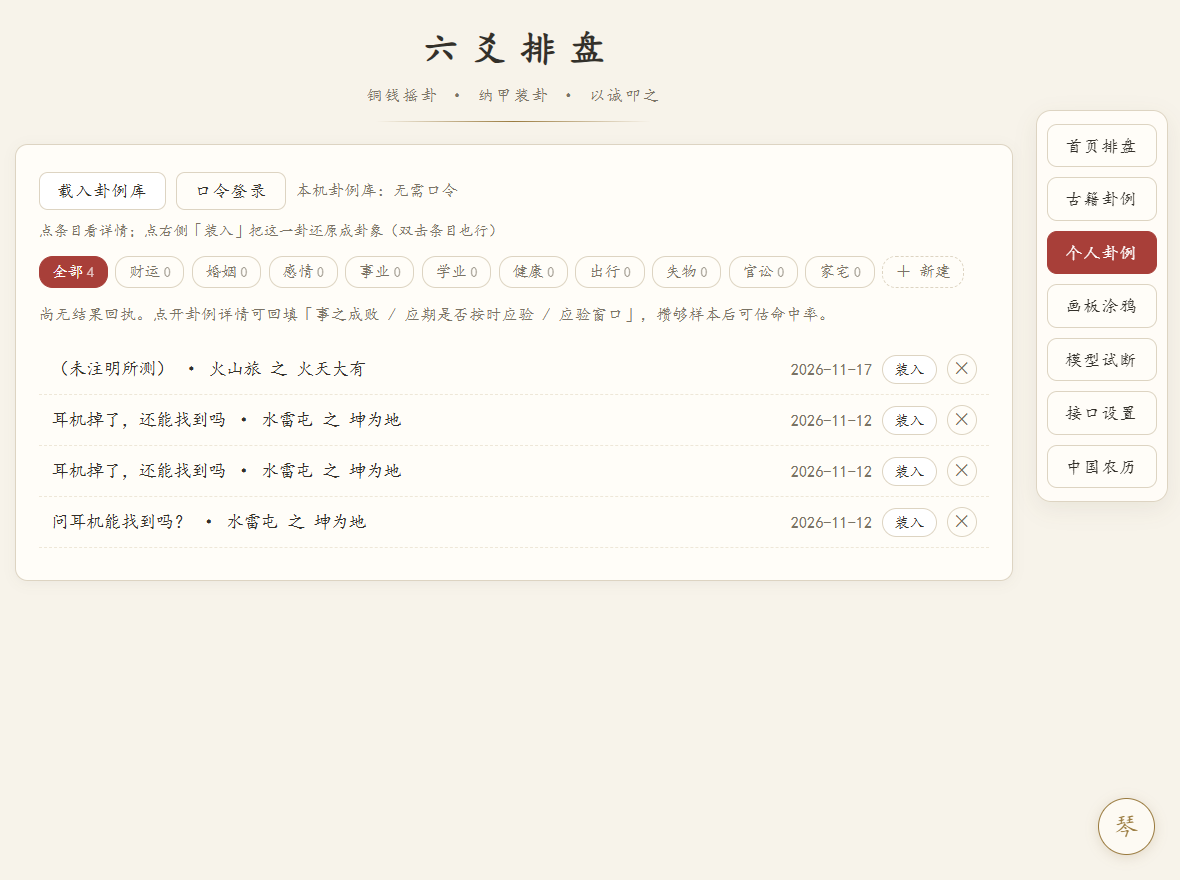
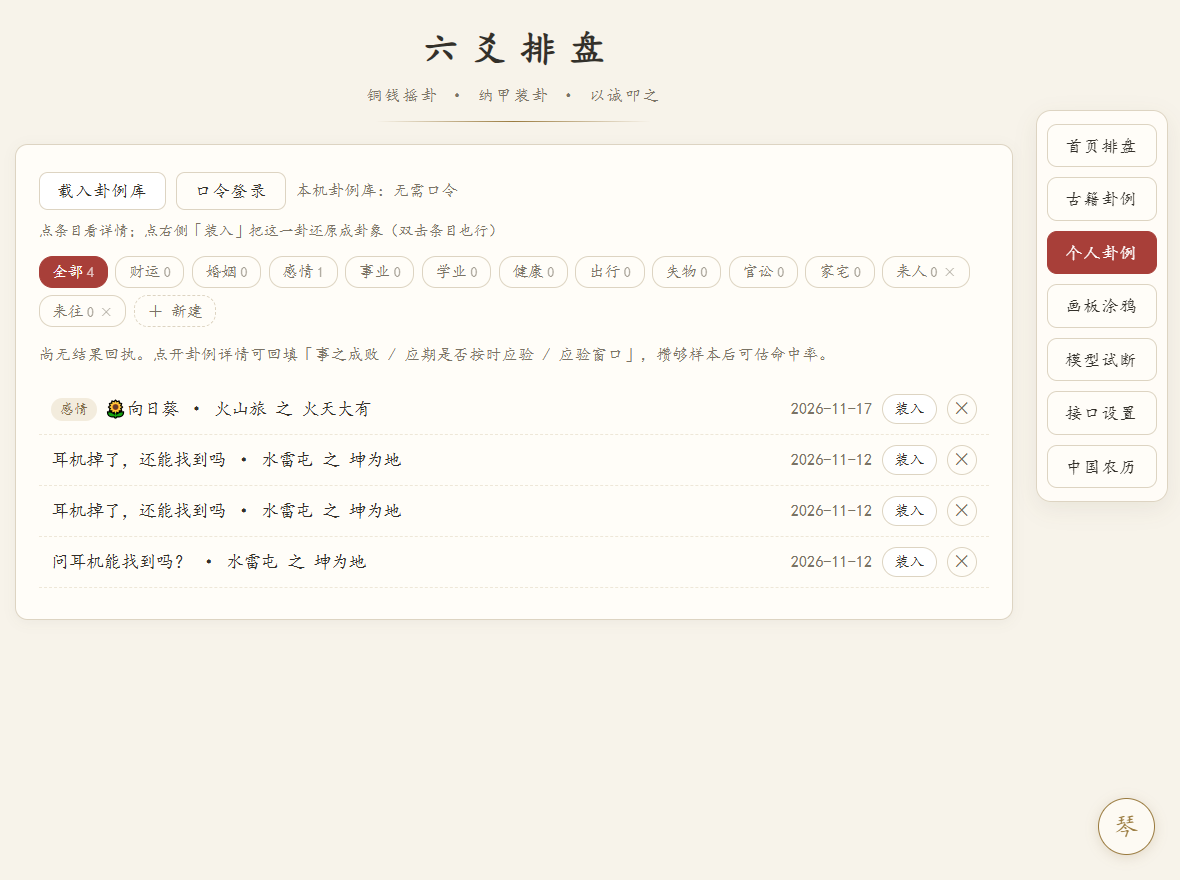
fix(OCR): 改用强类型 WinRT 投影 + async/await，反射根本拿不到成员
真机第二轮仍然 30 秒超时。直接验证了根因：
WinRT 异步方法返回的是 System.__ComObject，在它上面
  GetProperty("Status")   -> null
  GetMethod("GetResults") -> null
  GetEvent("Completed")   -> null
  GetMembers() 只有 7 个 Object 基成员
也就是投影缺失，反射一条路都走不通——之前拿不到 Status 就退化去挂 Completed
事件，可事件也拿不到，于是必然等到超时。上一版改成轮询也没解决问题，
因为轮询同样要读 Status。

改法：按官方方式用强类型投影，直接 async/await：
- 编译期加 /r:System.Runtime.WindowsRuntime.dll（提供 IAsyncOperation 的 awaiter）
  与 WinMetadata 下的 Foundation/Storage/Graphics/Media/Globalization 五个 winmd
- OcrImageAsync 内全是强类型调用（DataWriter/BitmapDecoder/OcrEngine），不再反射
- 缺依赖时构建直接 throw，不产出半个 exe
- 顺手修 DataWriter.FlushAsync 之后要 DetachStream、Seek 要传 0UL（ulong）
- AwaitWinRT / NotifyDone 一并删除

注意：这一步只能靠 CI 编译 + 真机验证，本地沙箱禁止编译 C#。

diff --git a/windows-shell/Program.cs b/windows-shell/Program.cs
@@ -23,6 +23,13 @@ using System.Runtime.InteropServices;
 using System.Text;
 using System.Windows.Forms;
 using Microsoft.Web.WebView2.Core;
+/* WinRT 投影：编译期需引用 System.Runtime.WindowsRuntime.dll 与 WinMetadata\*.winmd，
+ * 见 Program.cs 顶部 OcrImageAsync 的注释（反射拿不到 WinRT 成员，只能走强类型）。 */
+using Windows.Foundation;
+using Windows.Globalization;
+using Windows.Graphics.Imaging;
+using Windows.Media.Ocr;
+using Windows.Storage.Streams;
 using Microsoft.Web.WebView2.WinForms;
 
 static class Shell
@@ -230,12 +237,11 @@ static class Shell
                             /* 对指定图片跑系统 OCR（Windows.Media.Ocr），返回逐行
                              * "top\tleft\ttext"，与 core/ocr-paipan.js 的输入格式一致。
                              *
-                             * ⚠ 必须丢到后台线程跑：本方法在 WebView2 的 **UI（STA）线程**上，
-                             * 而 AwaitWinRT 是同步等待 IAsyncOperation。WinRT 的完成回调要
-                             * marshal 回同一个 STA 线程，可该线程正被 WaitOne 堵着——消息泵不转，
-                             * 回调永远排不上，结果是「30 秒超时」（2026-11-17 真机上就是这么挂的）。
-                             * 后台线程是 MTA，完成回调走线程池，不需要消息泵；算完再 BeginInvoke
-                             * 回到 UI 线程发消息。 */
+                             * ⚠ 必须丢到后台线程跑：本方法是 WebView2 的 **UI（STA）线程**上的
+                             * 同步事件处理器。WinRT 的完成回调要 marshal 回创建它的线程，
+                             * 若在那条线程上同步等（GetResult/WaitOne），消息泵被堵住、回调永远
+                             * 排不上——表现就是「30 秒超时」（2026-11-17 真机上遇到过）。
+                             * 后台（MTA）线程不需要消息泵，算完再 BeginInvoke 回 UI 线程发消息。 */
                             case "ocr":
                                 {
                                     var reqId = id;
@@ -244,7 +250,7 @@ static class Shell
                                     System.Threading.Tasks.Task.Run(new Action(() =>
                                     {
                                         string st2 = "ok", bd2 = "";
-                                        try { bd2 = OcrImage(reqPath); }
+                                        try { bd2 = OcrImageAsync(reqPath).GetAwaiter().GetResult(); }
                                         catch (Exception ex2) { st2 = "err"; bd2 = ex2.Message; Log("OcrImage", ex2); }
                                         try
                                         {
@@ -358,57 +364,6 @@ static class Shell
      *     所以图片走 File.ReadAllBytes → 内存流（InMemoryRandomAccessStream）。
      */
 
-    /* 用反射调一个 WinRT 静态/实例方法，并同步等它的 IAsyncOperation 结果。
-     * typeName 形如 "Windows.Storage.StorageFile, Windows.Storage, ContentType=WindowsRuntime"。 */
-    static object AwaitWinRT(string typeName, string methodName, object instance, object[] args)
-    {
-        var t = Type.GetType(typeName, true);
-        var m = instance == null
-            ? t.GetMethod(methodName, BindingFlags.Public | BindingFlags.Static)
-            : t.GetMethod(methodName, BindingFlags.Public | BindingFlags.Instance);
-        if (m == null) throw new MissingMethodException(t.FullName, methodName);
-
-        var op = m.Invoke(instance, args);
-        if (op == null) throw new InvalidOperationException(typeName + "." + methodName + " 返回 null");
-
-        /* IAsyncOperation<T> 只暴露 Status / GetResults / Completed（COM 接口）。
-         * 用反射取，避免在编译期依赖 WinRT 投影类型。 */
-        var opType = op.GetType();
-        var statusProp = opType.GetProperty("Status");
-        var resultsM = opType.GetMethod("GetResults");
-        var completedEvt = opType.GetEvent("Completed");
-
-        /* 已经完成（本地小图常常同步就完了）——别挂事件，直接取。 */
-        if (statusProp != null && Convert.ToInt32(statusProp.GetValue(op, null)) == 1)
-            return resultsM.Invoke(op, null);
-
-        var done = new System.Threading.ManualResetEvent(false);
-        if (completedEvt != null)
-        {
-            var handlerType = completedEvt.EventHandlerType;
-            // AsyncOperationCompletedHandler<T>：(IAsyncOperation<T>, AsyncStatus) => void
-            var handler = Delegate.CreateDelegate(handlerType, new NotifyDone(done),
-                typeof(NotifyDone).GetMethod("Invoke"));
-            completedEvt.AddEventHandler(op, handler);
-        }
-        if (!done.WaitOne(30000))
-            throw new TimeoutException(typeName + "." + methodName + " 超过 30 秒未返回");
-
-        var st = statusProp == null ? 1 : Convert.ToInt32(statusProp.GetValue(op, null));
-        if (st != 1) throw new InvalidOperationException(typeName + "." + methodName + " 失败（AsyncStatus=" + st + "）");
-        return resultsM.Invoke(op, null);
-    }
-
-    /* 给 Completed 事件当代理。AsyncOperationCompletedHandler<T> 的签名是
-     * void (IAsyncOperation<T>, AsyncStatus)，这里参数全用 object，
-     * Delegate.CreateDelegate 对这种「宽参数」是允许的（逆变 + 装箱）。 */
-    sealed class NotifyDone
-    {
-        readonly System.Threading.ManualResetEvent _e;
-        public NotifyDone(System.Threading.ManualResetEvent e) { _e = e; }
-        public void Invoke(object sender, object status) { try { _e.Set(); } catch { } }
-    }
-
     /* 弹出系统选图对话框，返回 "路径\n宽\n高"。取消时 status=err / body=CANCEL。 */
     static string PickImagePath(ref string status)
     {
@@ -425,134 +380,86 @@ static class Shell
 
     /* 对图片跑系统 OCR，返回逐行 "top\tleft\ttext"（与 ocr-paipan.js 入参同格式）。
      *
-     * 识别语言顺序：zh-Hans-CN → zh-Hant-TW → 用户首选 → 第一个可用。
-     * 只认中文包：排盘表里全是汉字，用英文引擎会把「财戌土」读成乱码。 */
-    static string OcrImage(string path)
+     * ⚠ 这里必须用**强类型 WinRT 投影 + async/await**，不能用反射：
+     *   WinRT 异步方法返回的是 System.__ComObject，而 System.__ComObject 上
+     *   **看不到任何 WinRT 成员**——实测 GetProperty("Status")、GetMethod("GetResults")、
+     *   GetEvent("Completed") 全部返回 null（成员只有 7 个 Object 基成员）。
+     *   之前那版反射拿不到 Status，就退化成「挂 Completed 事件」，可事件也拿不到，
+     *   于是必然 WaitOne 到 30 秒超时。这是 projection 缺失，不是慢。
+     * 所以编译期必须带上：
+     *   /r:System.Runtime.WindowsRuntime.dll（提供 IAsyncOperation 的 awaiter）
+     *   /r:%WINDIR%\System32\WinMetadata\*.winmd（提供 Windows.* 类型）
+     *
+     * 另外两条实测出来的坑：
+     *   ① 不能在 WebView2 的 UI（STA）线程上同步等——WinRT 完成回调要回到同一线程，
+     *      而它被堵着，消息泵不转 → 死锁。调用方已用 Task.Run 丢到后台线程。
+     *   ② StorageFile.GetFileFromPathAsync 对含非 ASCII 的路径会报
+     *      「包含一个或多个无效字符」，所以图片走 File.ReadAllBytes → 内存流。
+     */
+    static async System.Threading.Tasks.Task<string> OcrImageAsync(string path)
     {
         if (string.IsNullOrEmpty(path) || !File.Exists(path))
             throw new FileNotFoundException("图片不存在", path);
 
-        // 1) 图片 → 内存流 → SoftwareBitmap（避开中文路径的 GetFileFromPathAsync 坑）
         var bytes = File.ReadAllBytes(path);
-        var streamType = Type.GetType("Windows.Storage.Streams.InMemoryRandomAccessStream, Windows.Storage.Streams, ContentType=WindowsRuntime", true);
-        var stream = Activator.CreateInstance(streamType);
-        var writerType = Type.GetType("Windows.Storage.Streams.DataWriter, Windows.Storage.Streams, ContentType=WindowsRuntime", true);
-        var writer = Activator.CreateInstance(writerType, new object[] { stream });
-        writerType.GetMethod("WriteBytes").Invoke(writer, new object[] { bytes });
-        AwaitWinRT("Windows.Storage.Streams.DataWriter, Windows.Storage.Streams, ContentType=WindowsRuntime",
-            "StoreAsync", writer, null);
-        AwaitWinRT("Windows.Storage.Streams.DataWriter, Windows.Storage.Streams, ContentType=WindowsRuntime",
-            "FlushAsync", writer, null);
-        streamType.GetMethod("Seek").Invoke(stream, new object[] { 0UL });
+        var stream = new InMemoryRandomAccessStream();
+        var writer = new DataWriter(stream);
+        writer.WriteBytes(bytes);
+        await writer.StoreAsync();
+        await writer.FlushAsync();
+        writer.DetachStream();
+        stream.Seek(0UL);
 
-        var dec = AwaitWinRT("Windows.Graphics.Imaging.BitmapDecoder, Windows.Graphics.Imaging, ContentType=WindowsRuntime",
-            "CreateAsync", null, new object[] { stream });
-        var bmp = AwaitWinRT("Windows.Graphics.Imaging.BitmapDecoder, Windows.Graphics.Imaging, ContentType=WindowsRuntime",
-            "GetSoftwareBitmapAsync", dec, new object[] { });
-        int w = Convert.ToInt32(bmp.GetType().GetProperty("PixelWidth").GetValue(bmp, null));
-        int h = Convert.ToInt32(bmp.GetType().GetProperty("PixelHeight").GetValue(bmp, null));
+        var decoder = await BitmapDecoder.CreateAsync(stream);
+        var bmp = await decoder.GetSoftwareBitmapAsync();
+        int w = bmp.PixelWidth, h = bmp.PixelHeight;
 
-        /* 手机截图字太小：先放大再识别。实测 886×1920 的原图里
-         * 「○」「×」这类小符号一个都读不出来，放大 2 倍后能读到部分。
-         * 缩放上限按长边 ≤ 4000 控制，免得内存炸。 */
         var engine = CreateOcrEngine();
-        var result = AwaitWinRT("Windows.Media.Ocr.OcrEngine, Windows.Foundation, ContentType=WindowsRuntime",
-            "RecognizeAsync", engine, new object[] { bmp });
+        var result = await engine.RecognizeAsync(bmp);
 
         var sb = new StringBuilder();
         sb.Append("SIZE\t").Append(w).Append('\t').Append(h).Append('\n');
-        var linesType = result.GetType().GetProperty("Lines").GetValue(result, null);
-        var lines = (System.Collections.IEnumerable)linesType;
         var ci = System.Globalization.CultureInfo.InvariantCulture;
-        foreach (var line in lines)
+        foreach (var line in result.Lines)
         {
-            var wordsProp = line.GetType().GetProperty("Words");
-            var words = (System.Collections.IEnumerable)wordsProp.GetValue(line, null);
             double top = double.MaxValue, left = double.MaxValue;
-            foreach (var wd in words)
+            foreach (var wd in line.Words)
             {
-                var rect = wd.GetType().GetProperty("BoundingRect").GetValue(wd, null);
-                var rt = rect.GetType();
-                var y = Convert.ToDouble(rt.GetProperty("Y").GetValue(rect, null), ci);
-                var x = Convert.ToDouble(rt.GetProperty("X").GetValue(rect, null), ci);
-                if (y < top) top = y;
-                if (x < left) left = x;
+                var r2 = wd.BoundingRect;
+                if (r2.Y < top) top = r2.Y;
+                if (r2.X < left) left = r2.X;
             }
-            var text = (string)line.GetType().GetProperty("Text").GetValue(line, null);
-            if (text == null) continue;
             if (top == double.MaxValue) { top = 0; left = 0; }
             sb.Append(Math.Round(top).ToString(ci)).Append('\t')
               .Append(Math.Round(left).ToString(ci)).Append('\t')
-              .Append(text).Append('\n');
+              .Append(line.Text).Append('\n');
         }
         return sb.ToString();
     }
 
     /* 建一个中文 OCR 引擎。系统没装中文识别包时抛一条**看得懂**的话。 */
-    static object CreateOcrEngine()
+    static OcrEngine CreateOcrEngine()
     {
-        var langType = Type.GetType("Windows.Globalization.Language, Windows.Globalization, ContentType=WindowsRuntime", true);
-        var engineType = Type.GetType("Windows.Media.Ocr.OcrEngine, Windows.Foundation, ContentType=WindowsRuntime", true);
-        var tryCreate = engineType.GetMethod("TryCreateFromLanguage", BindingFlags.Public | BindingFlags.Static);
-
         var tries = new[] { "zh-Hans-CN", "zh-Hant-TW", System.Globalization.CultureInfo.CurrentUICulture.Name };
         foreach (var tag in tries)
         {
             if (string.IsNullOrEmpty(tag)) continue;
             try
             {
-                var lang = Activator.CreateInstance(langType, new object[] { tag });
-                var eng = tryCreate.Invoke(null, new object[] { lang });
+                var eng = OcrEngine.TryCreateFromLanguage(new Language(tag));
                 if (eng != null) return eng;
             }
             catch { }
         }
-        // 兜底：用系统第一个可用语言
-        try
+        foreach (var lang in OcrEngine.AvailableRecognizerLanguages)
         {
-            var avail = (System.Collections.IEnumerable)engineType
-                .GetProperty("AvailableRecognizerLanguages", BindingFlags.Public | BindingFlags.Static).GetValue(null, null);
-            foreach (var lang in avail)
-            {
-                var eng = tryCreate.Invoke(null, new object[] { lang });
-                if (eng != null) return eng;
-            }
+            var eng = OcrEngine.TryCreateFromLanguage(lang);
+            if (eng != null) return eng;
         }
-        catch { }
-
         throw new NotSupportedException(
             "本机没装中文 OCR 识别包。请到「设置 → 时间和语言 → 语言和区域」，" +
             "在中文下添加「可选语言功能 → 光学字符识别」，装完重开程序。\n" +
             "（英文包不够用：排盘表里全是汉字。）");
-    }
-
-    // 同名不覆盖：xxx.json → xxx (2).json
-    static string UniquePath(string dir, string name)
-    {
-        var target = Path.Combine(dir, name);
-        if (!File.Exists(target)) return target;
-        var stem = Path.GetFileNameWithoutExtension(name);
-        var ext = Path.GetExtension(name);
-        for (var i = 2; i < 1000; i++)
-        {
-            var t = Path.Combine(dir, stem + " (" + i + ")" + ext);
-            if (!File.Exists(t)) return t;
-        }
-        return Path.Combine(dir, stem + "-" + DateTime.Now.ToString("HHmmss") + ext);
-    }
-
-    // 只允许简单的文件名，禁止目录穿越
-    static string DataPath(string name)
-    {
-        var safe = new StringBuilder();
-        foreach (var ch in (name ?? ""))
-        {
-            if (char.IsLetterOrDigit(ch) || ch == '-' || ch == '_' || ch == '.' || ch == ' ') safe.Append(ch);
-        }
-        var n = safe.ToString().Trim();
-        if (n.Length == 0) n = "unnamed.json";
-        if (!n.EndsWith(".json", StringComparison.OrdinalIgnoreCase)) n += ".json";
-        return Path.Combine(DataDir(), n);
     }
 
     /* ---------- 崩溃日志 ---------- */
